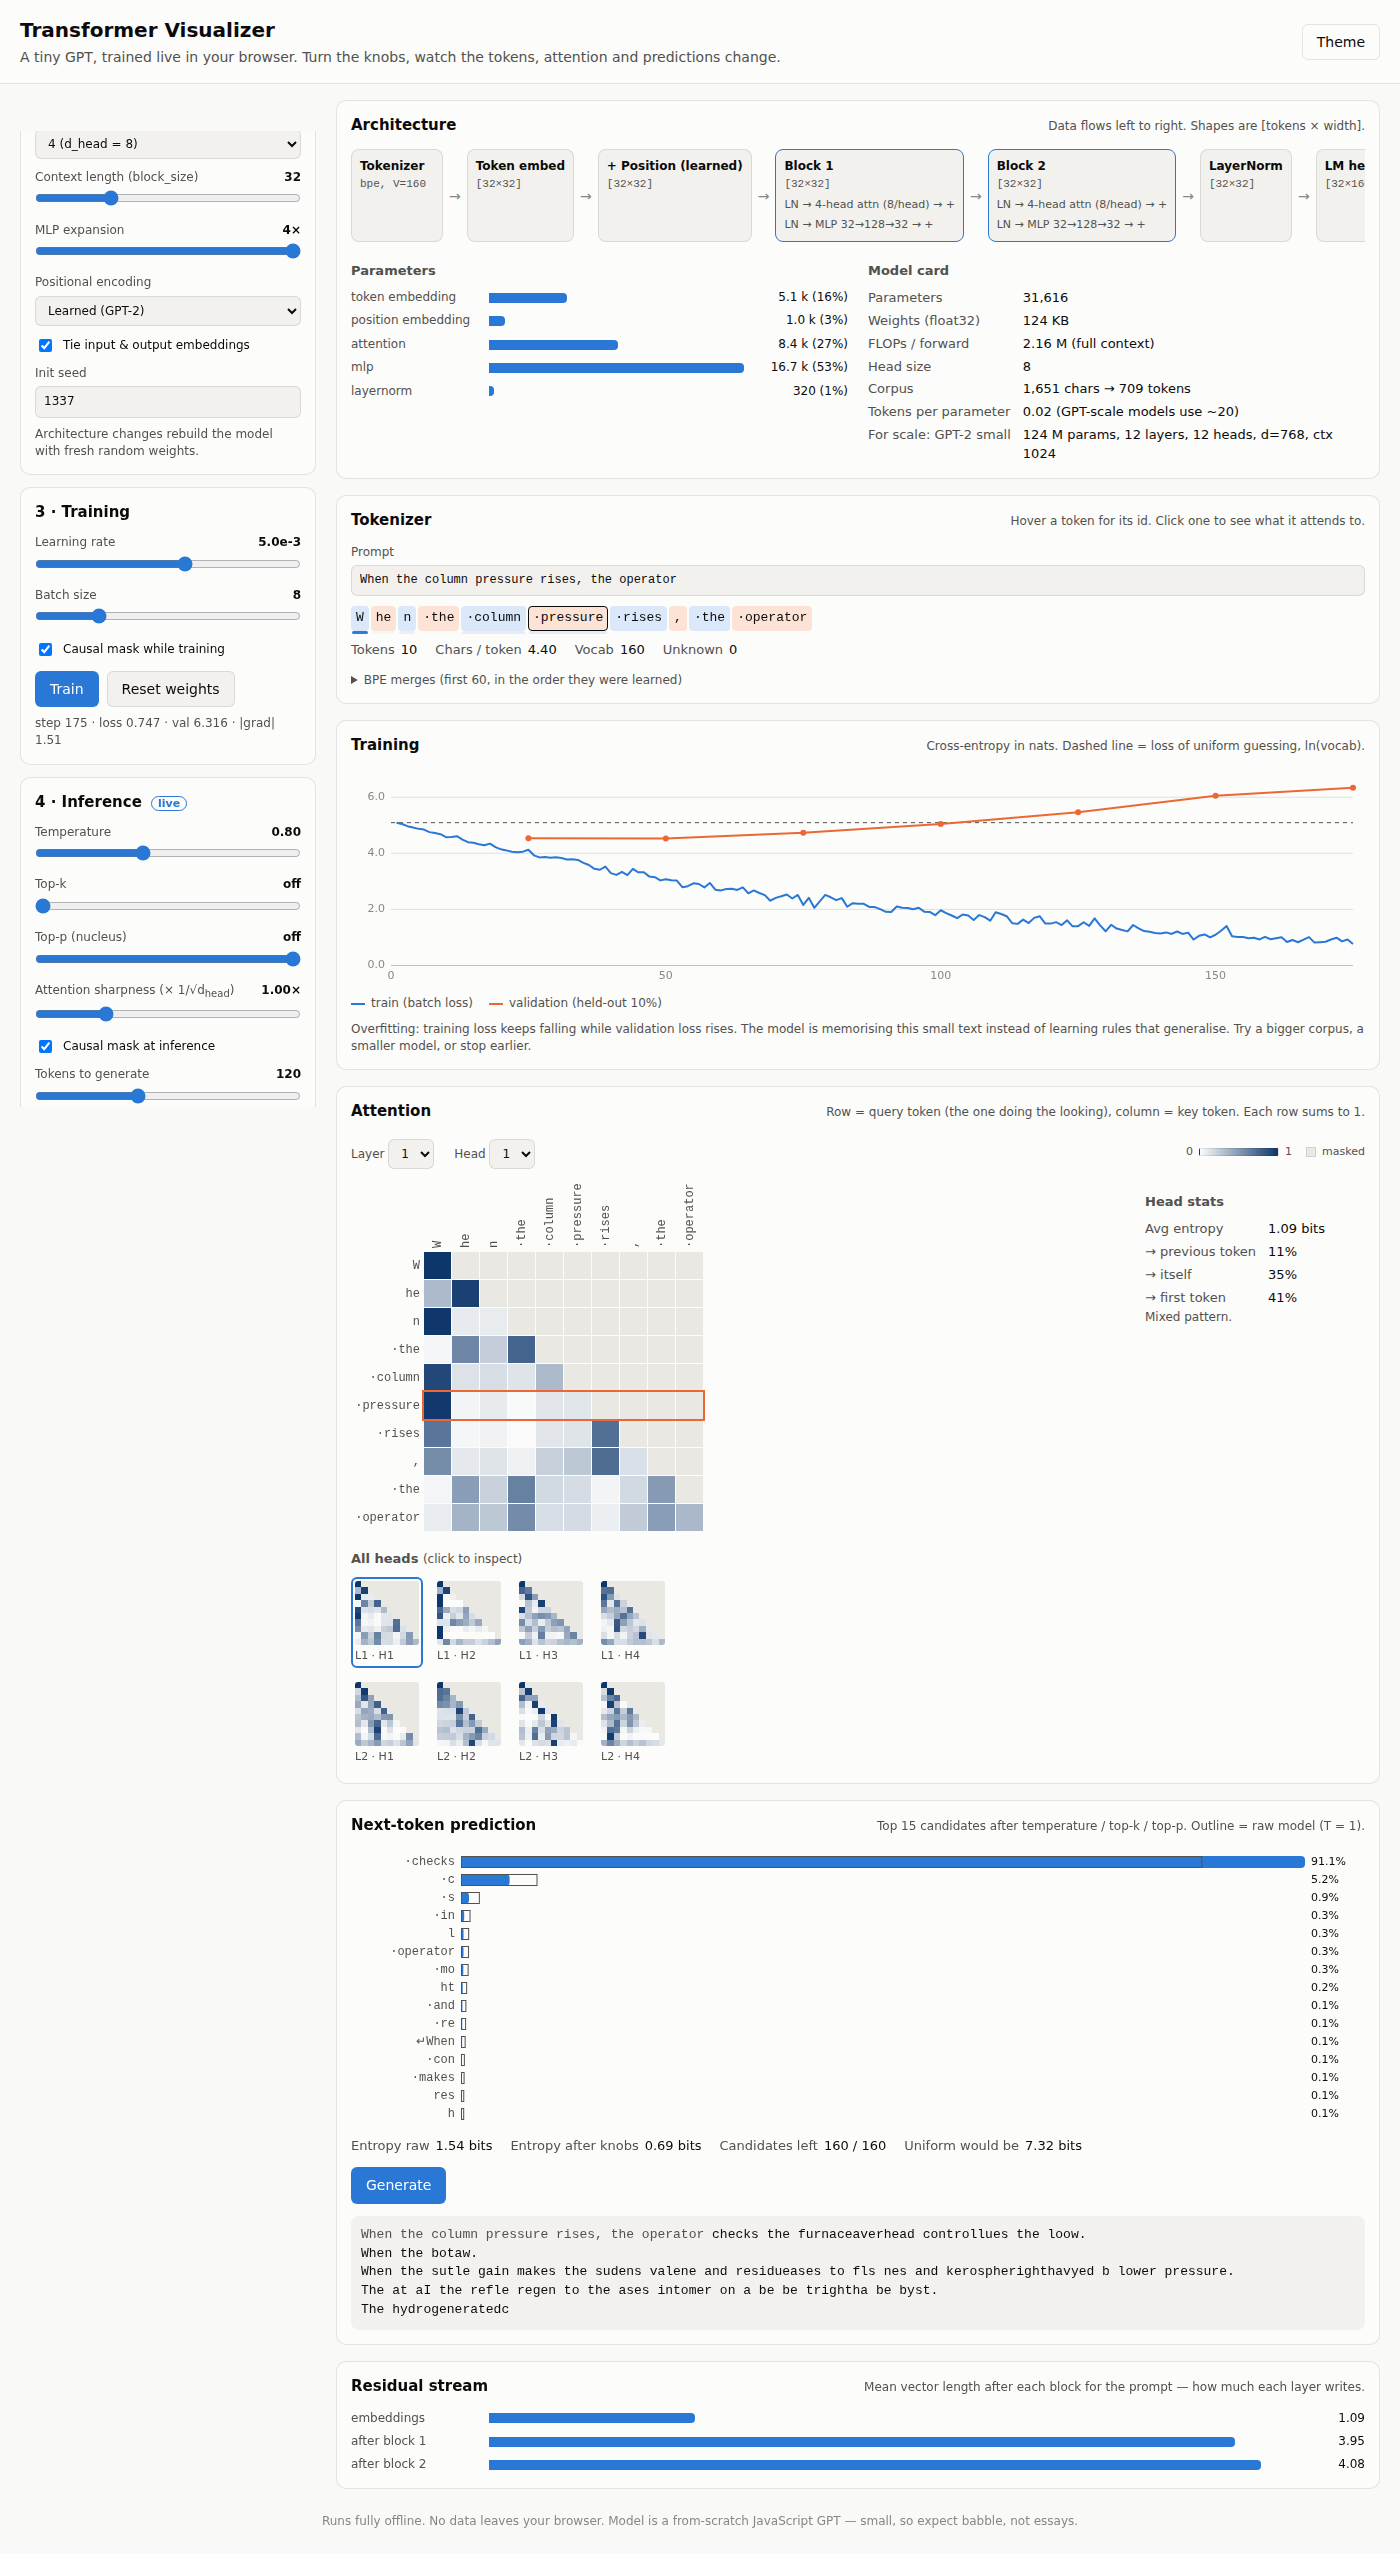
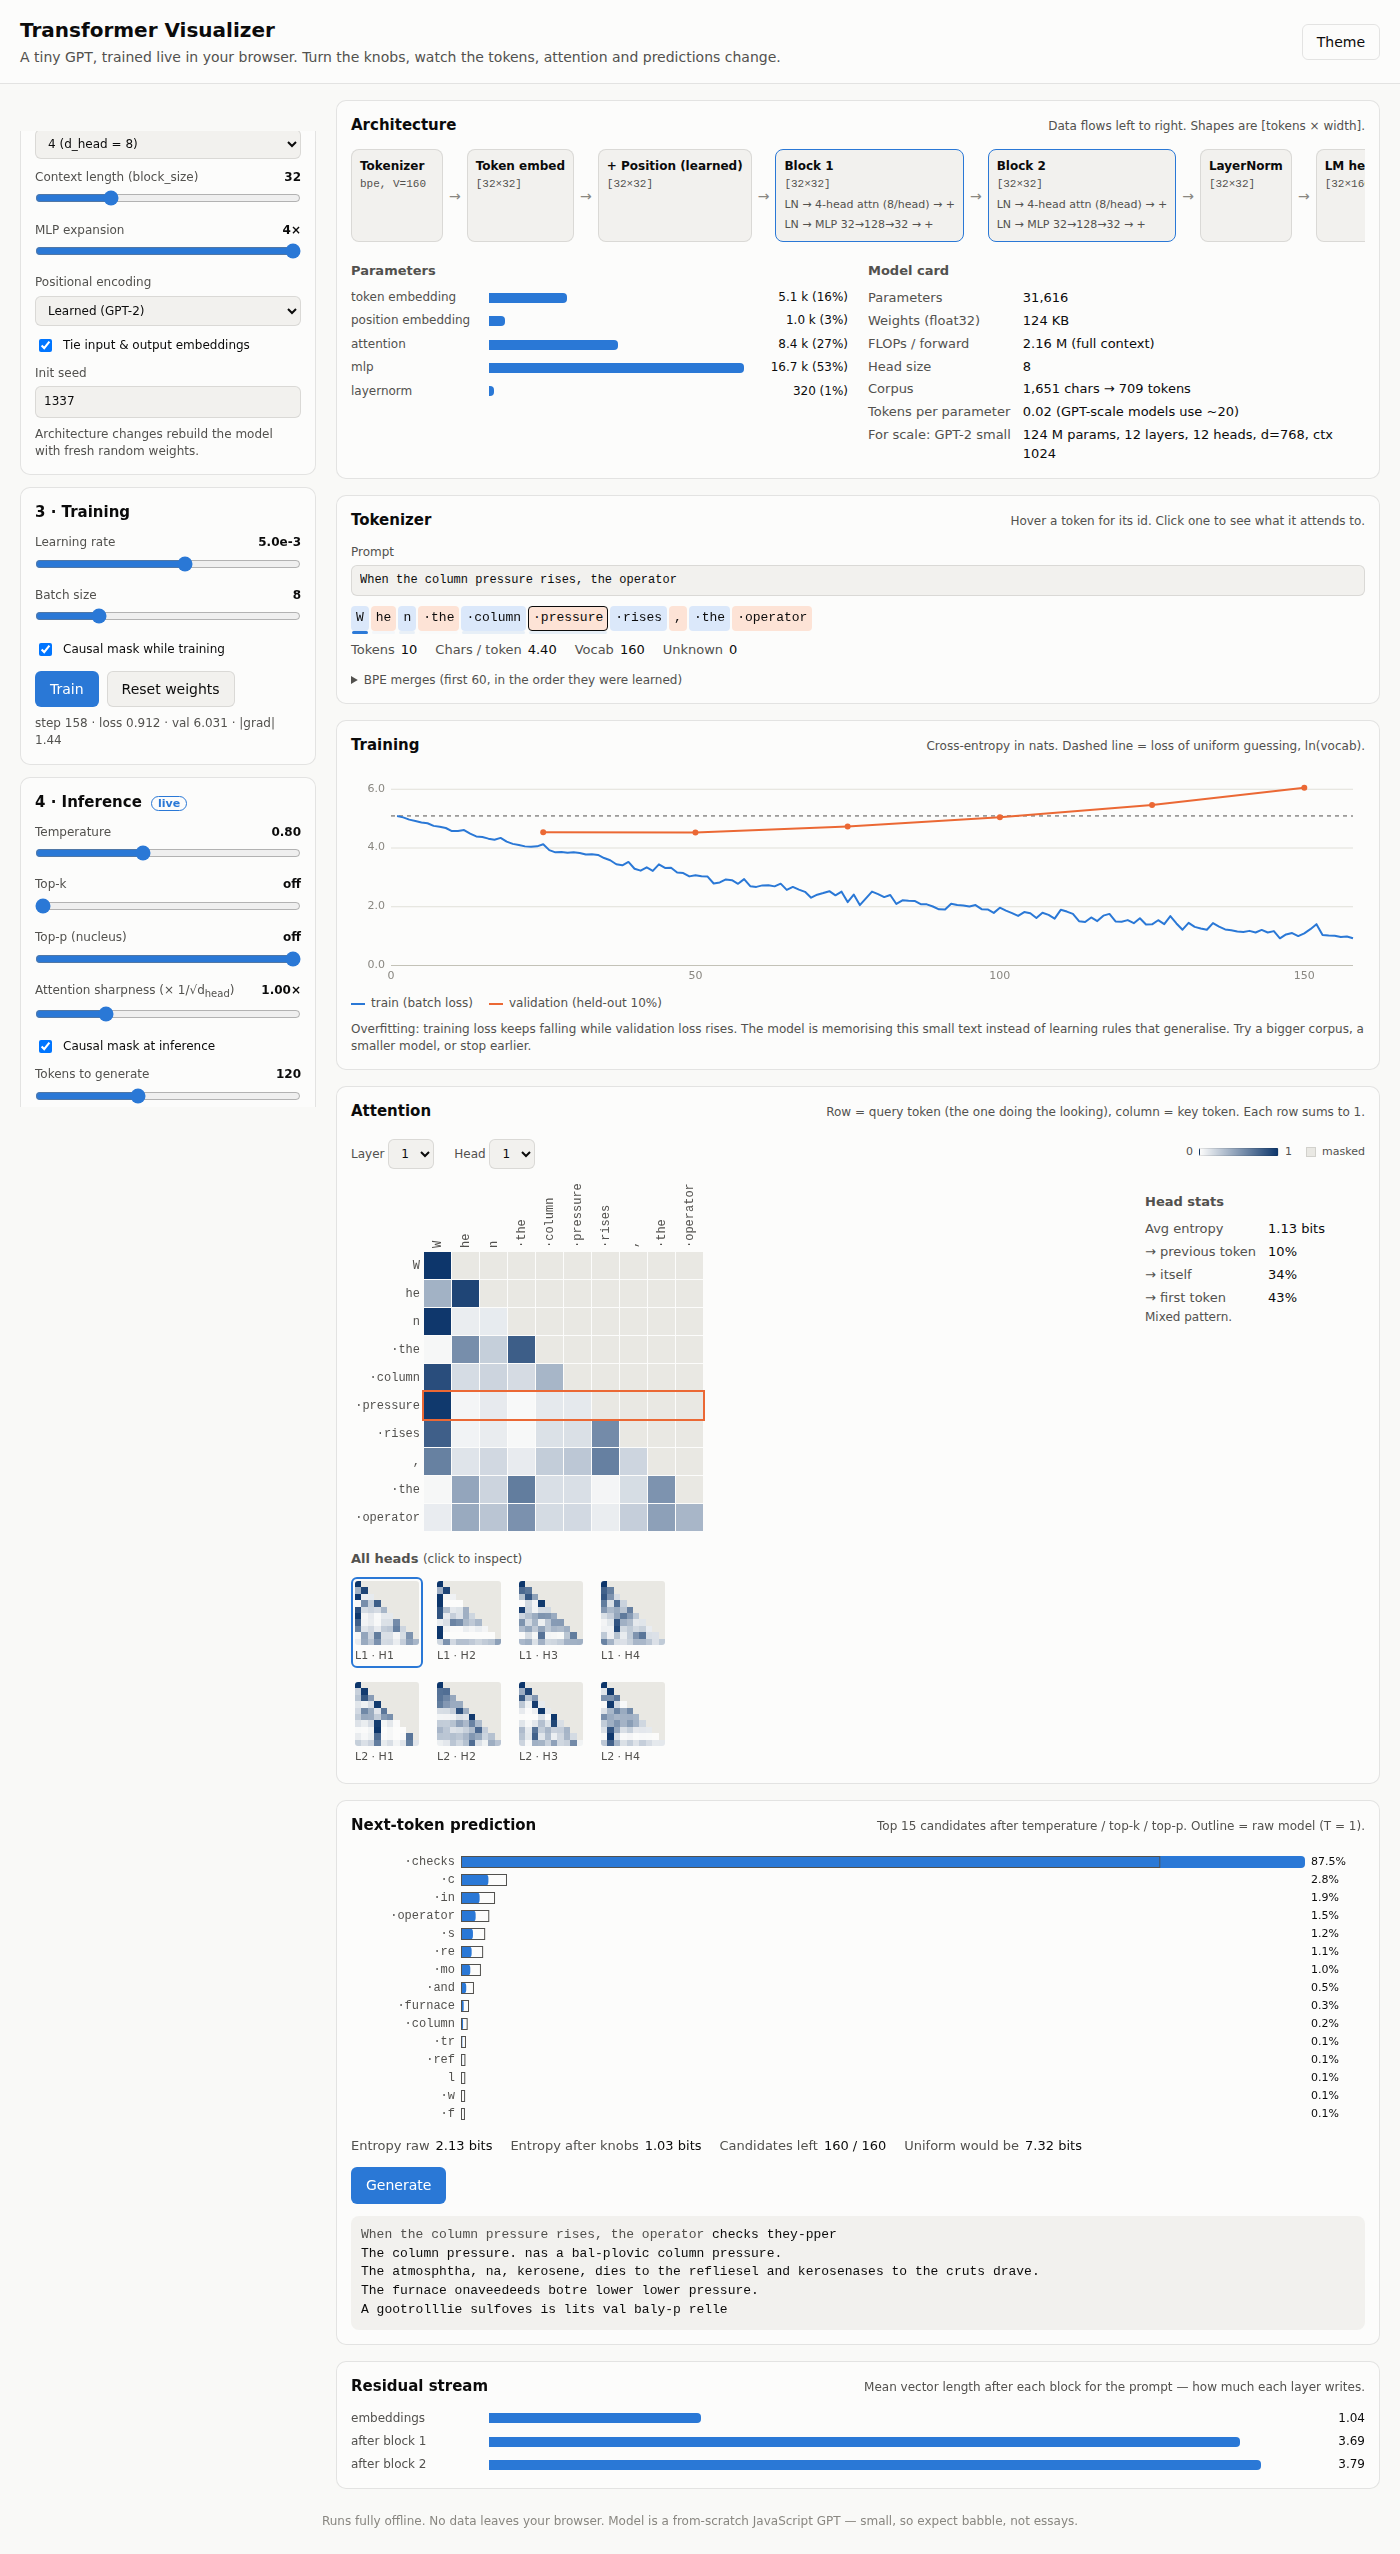
Fix review findings: stacked training loops, stuck Generate, README claims
- Training: each start gets a loop id; stale animation frames exit, so
  rapid Pause/Train no longer stacks loops (UI stutter)
- Generation: bound to the model it started with and cancelled on
  rebuild; changing tokenizer mid-generation used to throw and leave
  the Generate button permanently disabled
- Pre-tokenizer regex uses the u flag; add non-ASCII round-trip test
- README experiments rewritten to match measured behaviour (previous
  claims about clean previous-token heads and mask-free training were
  not reproducible at this scale)

Claude-Session: https://claude.ai/code/session_018rzuuun8RrE65xqVXEzZnh

diff --git a/js/app.js b/js/app.js
@@ -11,7 +11,7 @@
   const state = {
     tokenizer: null, trainData: [], valData: [], model: null, optim: null,
     rng: T.makeRng(1), step: 0, history: { train: [], val: [] },
-    running: false, analysis: null, selLayer: 0, selHead: 0, selQuery: null,
+    running: false, loopId: 0, analysis: null, selLayer: 0, selHead: 0, selQuery: null,
     lastVizUpdate: 0, genToken: 0,
   };
 
@@ -126,6 +126,7 @@
       banner(`Invalid configuration: ${e.message}`, 0);
       return;
     }
+    cancelGeneration();
     state.optim = new M.Adam(state.model.parameterList(), { lr: k.lr });
     state.rng = T.makeRng(k.seed + 1);
     state.step = 0;
@@ -145,15 +146,16 @@
     if (state.running) return;
     state.running = true;
     $('trainBtn').textContent = 'Pause';
-    requestAnimationFrame(trainLoop);
+    const id = ++state.loopId;
+    requestAnimationFrame(() => trainLoop(id));
   }
   function stopTraining() {
     state.running = false;
     $('trainBtn').textContent = 'Train';
   }
 
-  function trainLoop() {
-    if (!state.running) return;
+  function trainLoop(id) {
+    if (!state.running || id !== state.loopId) return; // paused, or superseded by a newer loop
     const k = knobs();
     state.optim.lr = k.lr;
     const t0 = performance.now();
@@ -180,7 +182,7 @@
     renderLoss();
     const now = performance.now();
     if (now - state.lastVizUpdate > 400) { state.lastVizUpdate = now; analyze(); }
-    requestAnimationFrame(trainLoop);
+    requestAnimationFrame(() => trainLoop(id));
   }
 
   // ---------------------------------------------------------------- analysis
@@ -455,9 +457,14 @@
   }
 
   // ---------------------------------------------------------------- generation
+  function cancelGeneration() {
+    state.genToken++;
+    $('genBtn').disabled = false;
+  }
+
   function generate() {
     const k = knobs();
-    const tok = state.tokenizer;
+    const tok = state.tokenizer, model = state.model;
     const promptIds = tok.encode($('prompt').value);
     if (!promptIds.length) { banner('Type a prompt first.'); return; }
     const out = $('genOut2');
@@ -469,13 +476,18 @@
     let produced = 0;
     $('genBtn').disabled = true;
     const tick = () => {
-      if (myToken !== state.genToken) return; // superseded
+      if (myToken !== state.genToken) return; // superseded or model rebuilt
       const t0 = performance.now();
-      while (produced < k.genLen && performance.now() - t0 < 25) {
-        const { logits } = state.model.nextTokenDistribution(ids, { causal: k.inferCausal, attnScale: k.attnScale });
-        const next = M.sampleFrom(M.applySampling(logits, k), rng);
-        ids.push(next);
-        produced++;
+      try {
+        while (produced < k.genLen && performance.now() - t0 < 25) {
+          const { logits } = model.nextTokenDistribution(ids, { causal: k.inferCausal, attnScale: k.attnScale });
+          ids.push(M.sampleFrom(M.applySampling(logits, k), rng));
+          produced++;
+        }
+      } catch (e) {
+        banner(`Generation stopped: ${e.message}`);
+        $('genBtn').disabled = false;
+        return;
       }
       gen.textContent = tok.decode(ids.slice(promptIds.length));
       if (produced < k.genLen) requestAnimationFrame(tick);

diff --git a/tests/tokenizer.test.js b/tests/tokenizer.test.js
@@ -40,3 +40,12 @@ test('rejects empty corpus / unknown type', () => {
   assert.throws(() => createTokenizer('char', ''));
   assert.throws(() => createTokenizer('nope', 'abc'));
 });
+
+test('non-ASCII text (accents, emoji, CJK) round-trips through every tokenizer', () => {
+  const text = 'Café déjà vu 🔥🔥 naïve 東京 flare 🔥 test, café!';
+  for (const type of ['char', 'word', 'bpe']) {
+    const tok = createTokenizer(type, text, 200);
+    assert.equal(tok.decode(tok.encode(text)), text, type);
+  }
+  assert.equal(pretokenize(text).join(''), text);
+});

diff --git a/js/tokenizer.js b/js/tokenizer.js
@@ -17,7 +17,7 @@
 
   const UNK = '<unk>';
   // GPT-2 style pre-tokenizer: optional leading space + letters / digits / punctuation, or whitespace runs.
-  const PRETOKEN_RE = /\s?[A-Za-zÀ-ɏ]+|\s?\d+|\s?[^\sA-Za-zÀ-ɏ\d]+|\s+(?!\S)|\s+/g;
+  const PRETOKEN_RE = /\s?[A-Za-zÀ-ɏ]+|\s?\d+|\s?[^\sA-Za-zÀ-ɏ\d]+|\s+(?!\S)|\s+/gu;
 
   function pretokenize(text) {
     return text.match(PRETOKEN_RE) || [];

diff --git a/README.md b/README.md
@@ -45,11 +45,12 @@ npm test
 
 ## Suggested experiments (5 minutes each)
 
-1. **Watch structure appear.** Select *Patterns*, press Train, and watch the attention thumbnails go from grey mush to sharp diagonals (previous-token heads) within ~100 steps.
+1. **Watch it learn.** Select *Patterns* + *Character* tokenizer, press Train. Loss falls from ~3.3 to ~0.3 in about 200 steps and the attention thumbnails go from evenly spread to structured. (Don't expect textbook-clean heads — at this size they stay fuzzy.)
 2. **Tokenizer trade-off.** Same text with *Character* vs *BPE 512*. Character: tiny vocab, long sequences. BPE: fewer tokens, bigger embedding table.
-3. **Cheating without a mask.** Uncheck *Causal mask while training*, train. Loss drops to near 0 — then generate and see that the model learned nothing useful.
-4. **Temperature.** On a trained model, slide temperature 0 → 2 and read the entropy numbers.
-5. **Overfitting.** Train on *Refinery operations* for a few hundred steps: train loss goes under 1, validation loss climbs past the uniform baseline. That's what a 30k-parameter model does with 700 tokens.
+3. **Why the causal mask matters.** Train on *Patterns*, then uncheck *Causal mask at inference*. The model was trained never seeing the future; letting it see the future scrambles its internal state (measured: loss 0.13 → 2.5, near the 3.3 of random guessing).
+4. **Attention sharpness.** Slide it from 0× to 3×: every head goes from uniform averaging (~3.7 bits entropy) to near one-hot (~1.5 bits).
+5. **Temperature.** On a trained model, slide temperature 0 → 2 and read the entropy numbers and the generated text.
+6. **Overfitting.** Train on *Refinery operations* for a few hundred steps: train loss goes under 1, validation loss climbs past the uniform baseline and the page flags it. That's what a 30k-parameter model does with 700 tokens.
 
 ## Honest limits
 
